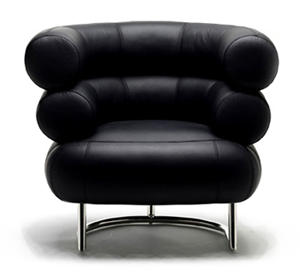
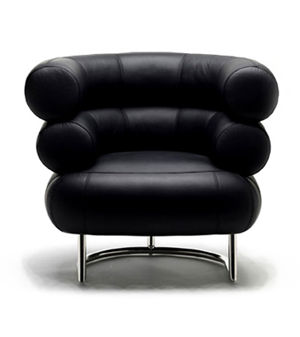
slider, drop down menu, hover effects

diff --git a/css/style.css b/css/style.css
@@ -73,23 +73,32 @@ nav {
 }
 
 .dropdown:hover ul {
-    visibility: visible;
+    opacity: 1;
+    display: inline-block;
 }
-
+.dropdown:hover {
+  height: 60px;
+}
 .dropdown>li {
     margin-right: 16px;
 }
 
 .inner_menu {
-    visibility: hidden;
+  display: none;
+    opacity: 0;
     position: absolute;
     list-style: none;
     background-color: black;
     /*margin-top: 24px;*/
     padding: 15px;
     left: -20px;
-    top: 40px;
+    top: 36px;
     font-weight: 400;
+    transition: all 0.2s ease-out;
+    -webkit-transition: all 0.2s ease-out;
+    -moz-transition: all 0.2s ease-out;
+    -ms-transition: all 0.2s ease-out;
+    -o-transition: all 0.2s ease-out;
 }
 
 .inner_menu::before {
@@ -155,9 +164,30 @@ nav {
     text-align: center;
 }
 
-.fourty img {
-    width: 390px;
-    padding: 104px 0 0px 11px;
+.slider img {
+    position: relative;
+    left: 0px;
+    width: 100%;
+    padding: 71px 0 0px 0px;
+}
+
+
+/*SLIDER*/
+
+.slider ul {
+    list-style: none;
+}
+
+.slider li {
+    display: none;
+}
+
+.slider .visible {
+    display: inline-block;
+}
+
+#nextPicture, #prevPicture {
+    cursor: pointer;
 }
 
 .fourty h1 {
@@ -230,6 +260,15 @@ nav {
     background-image: url(../images/box1_img.jpg);
     background-position: center;
     background-size: cover;
+    transition: 300ms;
+}
+.clair h2, .margarita h2 {
+  opacity: 1;
+  transition: all 0.2s ease-out;
+  -webkit-transition: all 0.2s ease-out;
+  -moz-transition: all 0.2s ease-out;
+  -ms-transition: all 0.2s ease-out;
+  -o-transition: all 0.2s ease-out;
 }
 
 .margarita {
@@ -238,6 +277,10 @@ nav {
     background-position: center;
     background-size: cover;
     margin: 28px 0px 78px 20px;
+    transition: 300ms;
+}
+.margarita:hover h2, .clair:hover h2 {
+  opacity: 0;
 }
 
 .describe {

diff --git a/index.html b/index.html
@@ -34,16 +34,21 @@
 
     <section id="main">
         <div class="container row">
-            <div class="ten">&lt;</div>
+            <div class="ten"><span id="prevPicture">&lt;</span></div>
             <div class="fourty">
-                <img src="images/black_chair_2.png">
+              <ul class="slider">
+                  <li><img src="images/black_chair_2.png"></li>
+                  <li><img src="images/red_2.png"></li>
+                  <li><img src="images/orange_2.png"></li>
+              </ul>
+
             </div>
             <div class="fourty center">
                 <h1>SIT <strong>ON</strong> OUR <strong>CHAIR</strong></h1>
                 <p>Lorem ipsum dolor sit amet enim. Etiam ullamcorper. Suspendisse a pellentesque dui, non felis. Maecenas malesuada elit lectus felis, malesuada ultricies. Curabitur et ligula. Ut molestie a, ultricies porta urna.</p>
                 <a href="#">ZOBACZ WIĘCEJ</a>
             </div>
-            <div class="ten right">&gt;</div>
+            <div class="ten right"><span id="nextPicture">&gt;</span></div>
         </div>
     </section>
 
@@ -154,6 +159,7 @@
 
         </div>
     </footer>
+    <script src="js/app.js" charset="utf-8"></script>
 </body>
 
 </html>

diff --git a/js/app.js b/js/app.js
@@ -1,0 +1,34 @@
+document.addEventListener("DOMContentLoaded", function() {
+    console.log("DOM");
+
+    var next = document.querySelector("#nextPicture");
+    var prev = document.querySelector("#prevPicture");
+    var allPics = document.querySelectorAll(".fourty ul li");
+    var picNumber = 0;
+
+    allPics[picNumber].classList.toggle("visible");
+
+    next.addEventListener("click", function() {
+        console.log("next click");
+
+        allPics[picNumber].classList.toggle("visible");
+        picNumber++;
+
+        if (picNumber >= allPics.length) {
+            picNumber = 0;
+        }
+        allPics[picNumber].classList.toggle("visible");
+    });
+
+    prev.addEventListener("click", function() {
+        console.log("prev click");
+        allPics[picNumber].classList.toggle("visible");
+        picNumber--;
+        if (picNumber < 0) {
+            picNumber = allPics.length - 1;
+        }
+        allPics[picNumber].classList.toggle("visible");
+    });
+
+
+})
